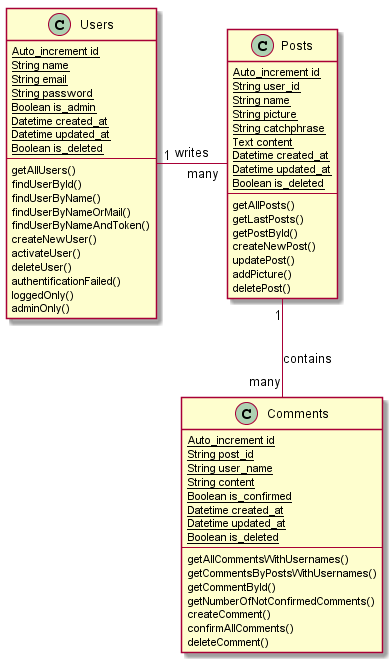
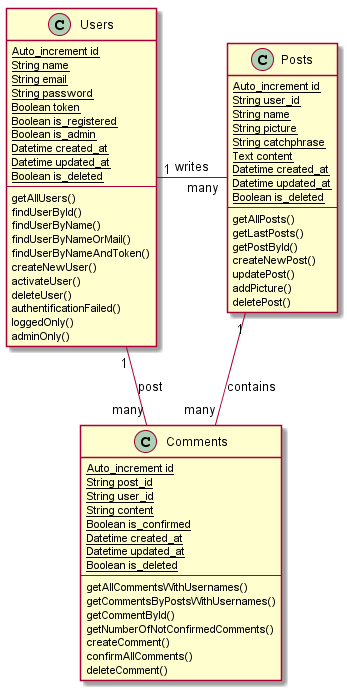
modification of phinx migrations due to new device

diff --git a/db/migrations/20200423143615_create_users_table.php b/db/migrations/20200423143615_create_users_table.php
@@ -35,11 +35,18 @@ class CreateUsersTable extends AbstractMigration
             ->addColumn('name', 'string')
             ->addColumn('email', 'string')
             ->addColumn('password', 'string')
+            ->addColumn('token', 'string', ['limit' => 50])
+            ->addColumn('is_registered', 'boolean')
             ->addColumn('is_admin', 'boolean')
             ->addColumn('created_at', 'datetime')
             ->addColumn('updated_at', 'datetime')
             ->addColumn('is_deleted', 'boolean')
-            ->addIndex(['username', 'email'], ['unique' => true])
+            ->addIndex(['name', 'email'], ['unique' => true])
             ->create();
+
+        $refTable = $this->table('posts');
+        $refTable->addColumn('user_id', 'integer', ['null' => true])
+            ->addForeignKey('user_id', 'users', 'id', ['delete'=> 'SET_NULL', 'update'=> 'NO_ACTION'])
+            ->save();
     }
 }

diff --git a/db/migrations/20200517093958_create_comments_table.php b/db/migrations/20200517093958_create_comments_table.php
@@ -32,8 +32,10 @@ class CreateCommentsTable extends AbstractMigration
     public function change()
     {
         $this->table('comments')
-            ->addColumn('post_id', 'string')
-            ->addColumn('user_name', 'string')
+            ->addColumn('post_id', 'integer', ['null' => true])
+            ->addColumn('user_id', 'integer', ['null' => true])
+            ->addForeignKey('user_id', 'users', 'id', ['delete'=> 'SET_NULL', 'update'=> 'NO_ACTION'])
+            ->addForeignKey('post_id', 'posts', 'id', ['delete'=> 'SET_NULL', 'update'=> 'NO_ACTION'])
             ->addColumn('content', 'string')
             ->addColumn('is_confirmed', 'boolean')
             ->addColumn('created_at', 'datetime')
